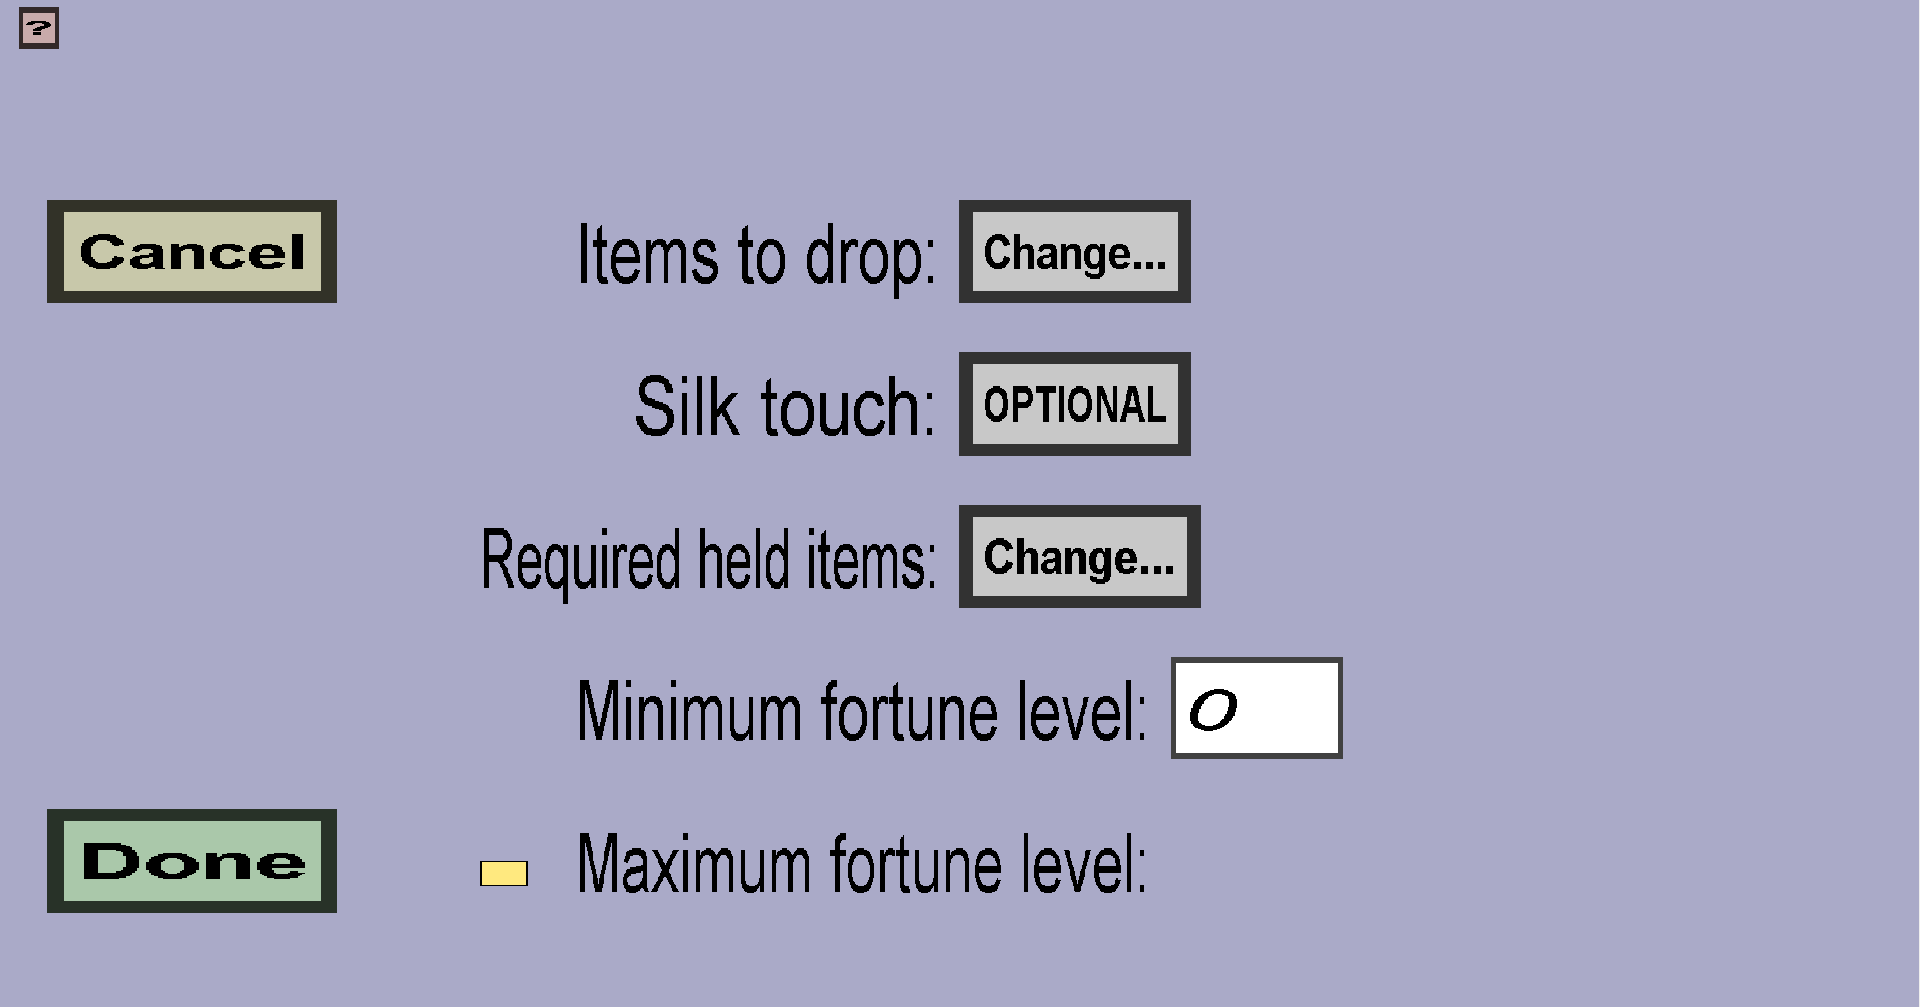
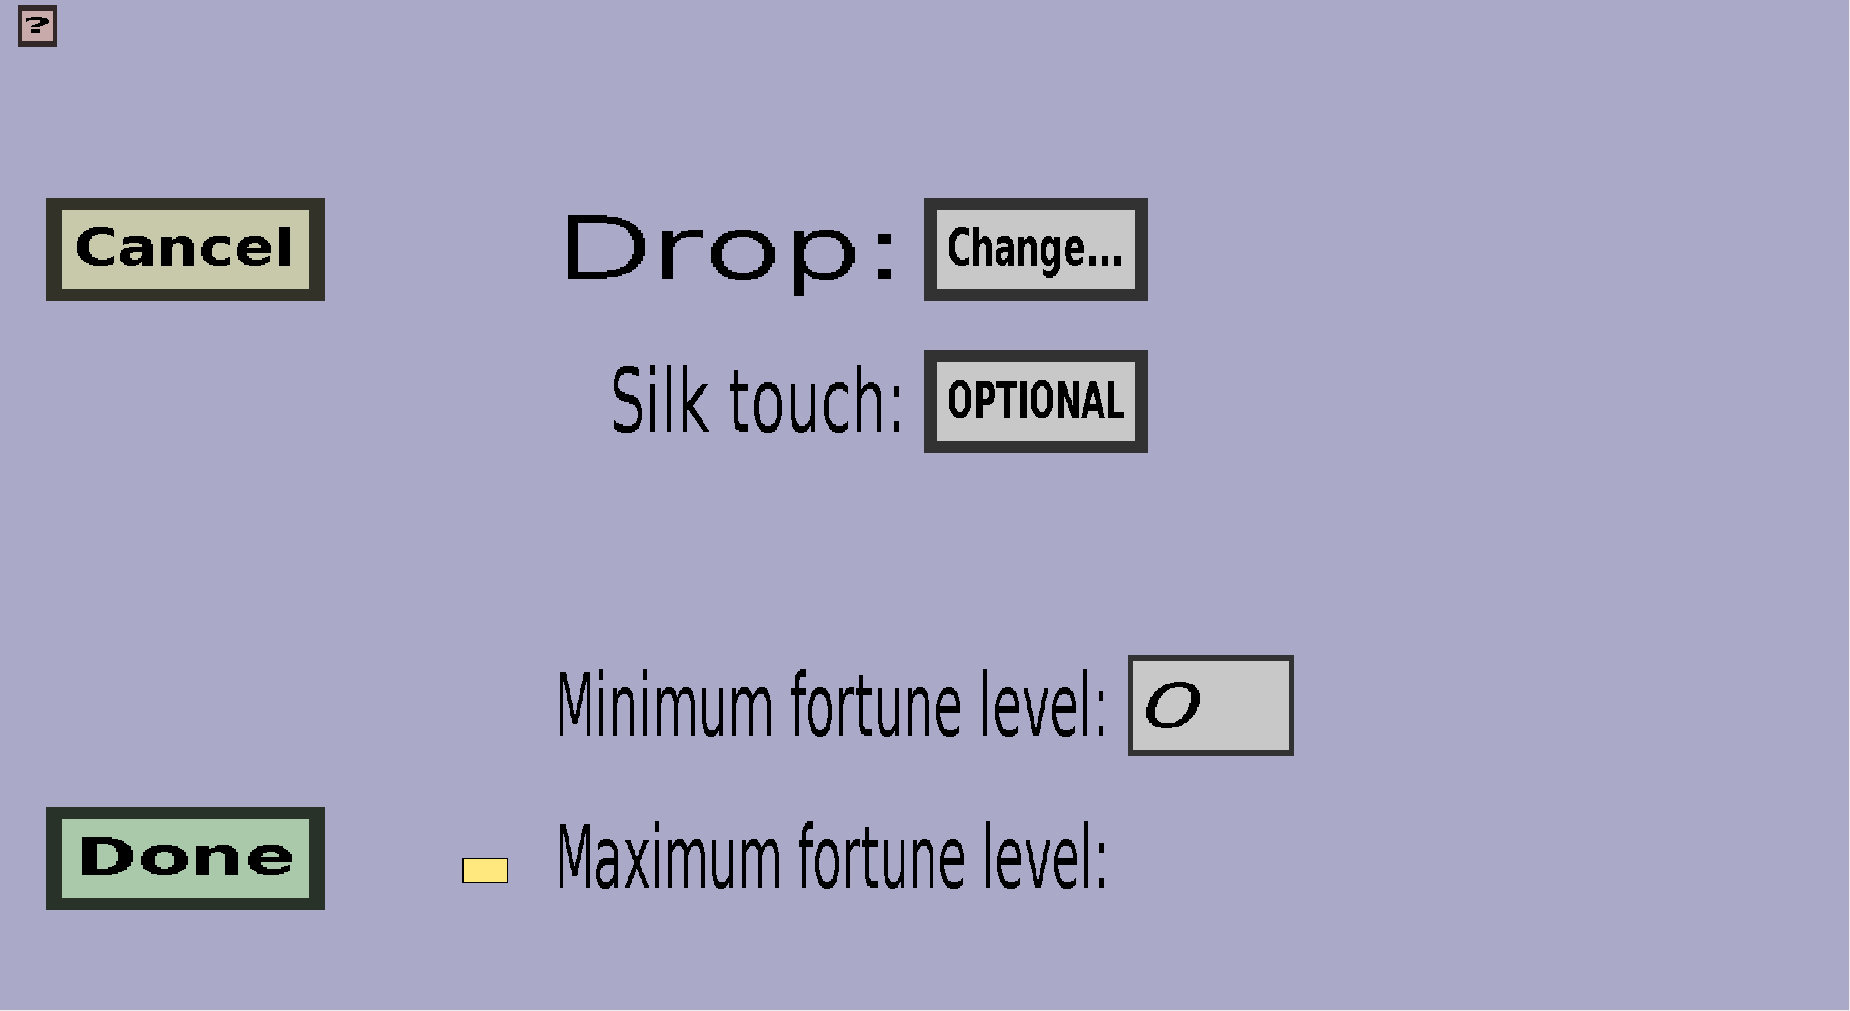
Document the block drop unification of custom items 13

diff --git a/custom items/editor documentation/edit menu/blocks/drops/edit.html b/custom items/editor documentation/edit menu/blocks/drops/edit.html
@@ -15,9 +15,7 @@
         </p>
         <ul>
             <li>
-                A list of <a href="../../recipes/output table.html">output tables</a>,
-                from which each output table will produce (drop) 1 or no items when 
-                the block is destroyed.
+                <a href="../../drops/drop.html">The items to be dropped, required items to use, and allowed biomes.</a>
             </li>
             <li>
                 A <i>silk touch requirement</i>. This determines whether players need
@@ -32,15 +30,6 @@
                 if the fortune level is at least <i>Minimum fortune level</i> (when the player doesn't use
                 the fortune enchantment, its level is considered to be 0). You can optionally configure
                 a <i>Maximum furtune level</i> as well.
-            </li>
-            <li>
-                A configuration of <i>required held items</i>. If you enable it,
-                the output tables will only drop items when the block is broken
-                with the right item (and you can choose which items are the 
-                <i>right</i> items). Using required items, you can for instance
-                force players to use pickaxes to break the block (if they don't,
-                it won't drop any items). See <a href="required items.html">this 
-                page</a> for more information.
             </li>
         </ul>
     </body>

diff --git a/custom items/editor documentation/edit menu/drops/drop.html b/custom items/editor documentation/edit menu/drops/drop.html
@@ -53,22 +53,12 @@
             <a href="allowed biomes.html">allowed biomes menu</a> where you can configure
             in which biomes this drop can happen (and in which biomes it can't happen).
         </p>
-        <h3>Prevent normal Drops</h3>
+        <h3>Prevent normal Drops (not for custom blocks)</h3>
         <p>
             If this checkbox is checked and an item is dropped because of this drop,
             no normal items will be dropped. (If this drop is for a zombie, no rotten 
             flesh will be dropped. If this drop is for stone, no cobblestone will be 
             dropped.)
-        </p>
-        <h3>Cancel</h3>
-        <p>
-            Pressing the cancel button will return you back to the overview menu (at the top of the page). Everything you have setup will be lost 
-            and cannot be restored without doing everything again.
-        </p>
-        <h3>Apply</h3>
-        <p>
-            Pressing the apply button adds a new entry to the overview menu. The information can be found on the respective pages (<a href="blocks.html">Block Drop Menu</a> and 
-            <a href="mobs.html">Mob Drop Menu</a>).
         </p>
     </body>
 </html>
